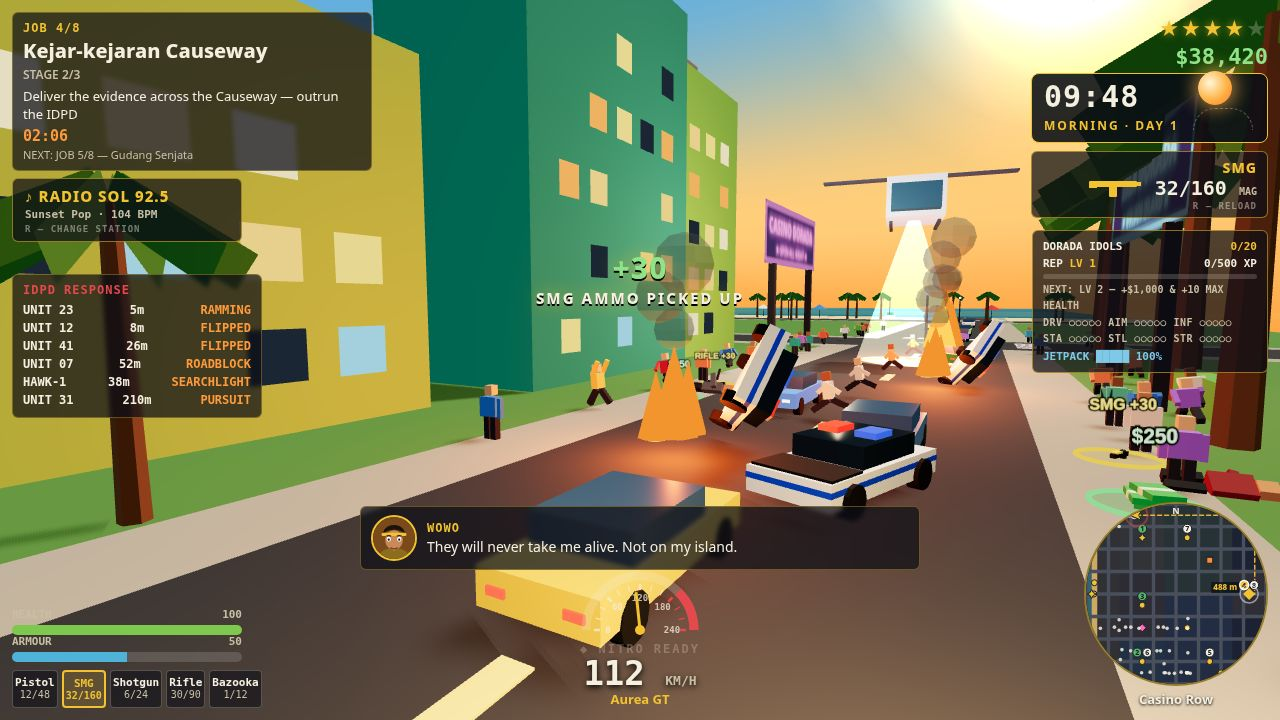
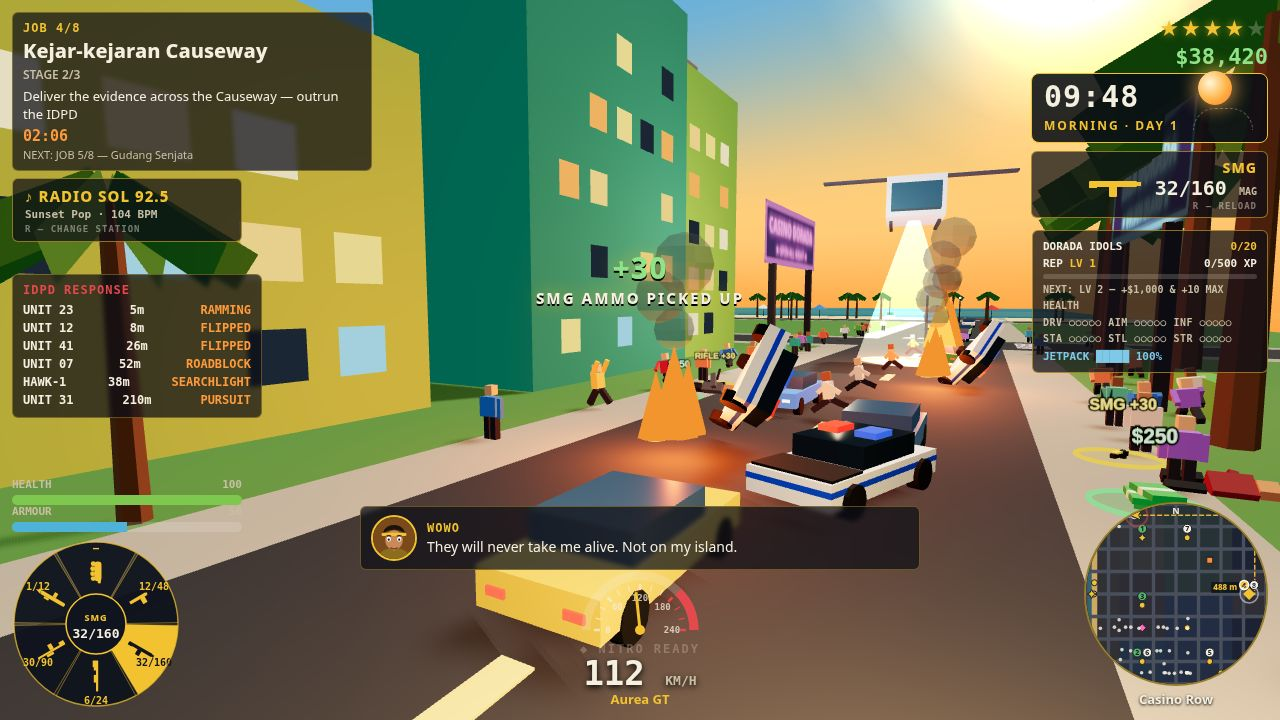
Token launch radar entry for make.fun token-radar-01

Changed region(s): [[0.0, 0.6722, 0.2188, 1.0]]

diff --git a/game/src/hud.js b/game/src/hud.js
@@ -12,7 +12,6 @@ const el = {};
 let last = {};
 let dialogueTimer = null;
 let toastTimer = null;
-let weaponSlots = [];
 let gaugeCtx = null;
 let popups = []; // { el, born, key }
 let seenScoreKeys = new Set();
@@ -92,33 +91,107 @@ export function portraitSVG(speaker) {
 
 // ---------------------------------------------------------------- weapon art
 // Flat, drawn SVG weapon silhouettes — original geometric art, no images.
-// Each is a 64x28 viewBox gun profile in gold; readable at ~60 px wide.
-// Used by the GTA-style top-right weapon panel (current weapon + ammo).
-function weaponSVG(name) {
+// Each is a 64x28 viewBox gun profile; readable at ~60 px wide.
+// Used by the GTA-style top-right weapon panel (current weapon + ammo) and
+// by the weapon wheel (one silhouette per wedge, gold on dark, dark on the
+// gold selected wedge — hence the colour parameter).
+function weaponSVGInner(name, color) {
   const n = String(name || '').toUpperCase();
-  const gold = '#f2c230';
+  const c = color || '#f2c230';
   let body = '';
-  if (n.includes('PISTOL')) {
-    body = `<rect x="10" y="9" width="34" height="6" rx="1" fill="${gold}"/>`
-      + `<rect x="30" y="14" width="9" height="12" rx="1" fill="${gold}"/>`
-      + `<rect x="42" y="10" width="4" height="4" fill="${gold}"/>`;
+  if (n.includes('FIST')) {
+    body = `<circle cx="20" cy="9" r="4.5" fill="${c}"/><circle cx="29" cy="8" r="4.5" fill="${c}"/>`
+      + `<circle cx="38" cy="8" r="4.5" fill="${c}"/><circle cx="47" cy="9" r="4.5" fill="${c}"/>`
+      + `<rect x="15" y="11" width="36" height="13" rx="6" fill="${c}"/>`
+      + `<rect x="11" y="17" width="10" height="6" rx="3" fill="${c}"/>`;
+  } else if (n.includes('PISTOL')) {
+    body = `<rect x="10" y="9" width="34" height="6" rx="1" fill="${c}"/>`
+      + `<rect x="30" y="14" width="9" height="12" rx="1" fill="${c}"/>`
+      + `<rect x="42" y="10" width="4" height="4" fill="${c}"/>`;
   } else if (n.includes('SMG')) {
-    body = `<rect x="6" y="10" width="48" height="6" rx="1" fill="${gold}"/>`
-      + `<rect x="26" y="15" width="8" height="11" rx="1" fill="${gold}"/>`
-      + `<rect x="6" y="12" width="8" height="5" fill="${gold}"/>`
-      + `<rect x="52" y="11" width="6" height="4" fill="${gold}"/>`;
+    body = `<rect x="6" y="10" width="48" height="6" rx="1" fill="${c}"/>`
+      + `<rect x="26" y="15" width="8" height="11" rx="1" fill="${c}"/>`
+      + `<rect x="6" y="12" width="8" height="5" fill="${c}"/>`
+      + `<rect x="52" y="11" width="6" height="4" fill="${c}"/>`;
   } else if (n.includes('SHOTGUN')) {
-    body = `<rect x="4" y="10" width="56" height="4" rx="1" fill="${gold}"/>`
-      + `<rect x="30" y="14" width="14" height="4" fill="${gold}"/>`
-      + `<rect x="4" y="13" width="12" height="7" rx="1" fill="${gold}"/>`
-      + `<rect x="14" y="14" width="8" height="4" fill="${gold}"/>`;
+    body = `<rect x="4" y="10" width="56" height="4" rx="1" fill="${c}"/>`
+      + `<rect x="30" y="14" width="14" height="4" fill="${c}"/>`
+      + `<rect x="4" y="13" width="12" height="7" rx="1" fill="${c}"/>`
+      + `<rect x="14" y="14" width="8" height="4" fill="${c}"/>`;
+  } else if (n.includes('BAZOOKA')) {
+    body = `<rect x="4" y="11" width="50" height="7" rx="3" fill="${c}"/>`
+      + `<path d="M54 11 L64 14.5 L54 18 Z" fill="${c}"/>`
+      + `<rect x="24" y="18" width="7" height="9" rx="1" fill="${c}"/>`
+      + `<rect x="34" y="7" width="10" height="4" rx="1" fill="${c}"/>`
+      + `<rect x="4" y="12" width="5" height="5" fill="${c}"/>`;
   } else { // Rifle
-    body = `<rect x="4" y="10" width="56" height="4" rx="1" fill="${gold}"/>`
-      + `<rect x="30" y="5" width="14" height="5" rx="1" fill="${gold}"/>`
-      + `<rect x="26" y="14" width="8" height="11" rx="1" fill="${gold}"/>`
-      + `<rect x="4" y="12" width="10" height="7" rx="1" fill="${gold}"/>`;
+    body = `<rect x="4" y="10" width="56" height="4" rx="1" fill="${c}"/>`
+      + `<rect x="30" y="5" width="14" height="5" rx="1" fill="${c}"/>`
+      + `<rect x="26" y="14" width="8" height="11" rx="1" fill="${c}"/>`
+      + `<rect x="4" y="12" width="10" height="7" fill="${c}"/>`;
   }
-  return `<svg viewBox="0 0 64 28" width="64" height="28" aria-hidden="true">${body}</svg>`;
+  return body;
+}
+
+function weaponSVG(name) {
+  return `<svg viewBox="0 0 64 28" width="64" height="28" aria-hidden="true">${weaponSVGInner(name)}</svg>`;
+}
+
+// ---------------------------------------------------------------- weapon wheel
+// GTA V weapon wheel: a circle divided into WEDGE segments (not boxes in a
+// ring). Six wedges — Fists on top, then Pistol, SMG, Shotgun, Rifle,
+// Bazooka clockwise — each carrying its silhouette, the selected wedge
+// gold with a dark icon, the rest dark with gold icons; the centre shows
+// the selected weapon's name + ammo. One SVG, rebuilt only when the
+// selection or an ammo count changes (renderHUD's signature check), so the
+// per-frame cost is a string compare. Wedge order is display-only: the
+// weapon index stays the combat index (Fists is index 5, appended last so
+// the staged shots' indices never move).
+const WHEEL_ORDER = [5, 0, 1, 2, 3, 4]; // display position -> weapon index
+const WHEEL_SIZE = 168, WHEEL_C = 84, WHEEL_R = 82, WHEEL_HOLE = 30;
+
+function wheelWedgePath(cx, cy, rOut, rIn, a0, a1) {
+  const rad = (d) => (d * Math.PI) / 180;
+  const pt = (r, a) => [cx + r * Math.cos(rad(a)), cy + r * Math.sin(rad(a))];
+  const [x0o, y0o] = pt(rOut, a0), [x1o, y1o] = pt(rOut, a1);
+  const [x1i, y1i] = pt(rIn, a1), [x0i, y0i] = pt(rIn, a0);
+  const f = (n) => n.toFixed(1);
+  return `M${f(x0i)} ${f(y0i)} L${f(x0o)} ${f(y0o)} A${rOut} ${rOut} 0 0 1 ${f(x1o)} ${f(y1o)}`
+    + ` L${f(x1i)} ${f(y1i)} A${rIn} ${rIn} 0 0 0 ${f(x0i)} ${f(y0i)} Z`;
+}
+
+function weaponWheelSVG(weapons, selectedIndex) {
+  const c = WHEEL_C;
+  let s = `<svg viewBox="0 0 ${WHEEL_SIZE} ${WHEEL_SIZE}" width="${WHEEL_SIZE}" height="${WHEEL_SIZE}" aria-hidden="true">`;
+  s += `<circle cx="${c}" cy="${c}" r="${WHEEL_R}" fill="rgba(12,14,22,.72)"/>`;
+  WHEEL_ORDER.forEach((wi, k) => {
+    const mid = -90 + k * 60; // wedge k centred on this angle (0 deg = east)
+    const a0 = mid - 29, a1 = mid + 29; // 2 deg gaps = the GTA dividers
+    const sel = wi === selectedIndex;
+    const w = weapons[wi] || {};
+    const fill = sel ? '#f2c230' : 'rgba(16,20,31,.88)';
+    const ink = sel ? '#14141f' : '#f2c230';
+    s += `<path d="${wheelWedgePath(c, c, WHEEL_R, WHEEL_HOLE, a0, a1)}" fill="${fill}" stroke="rgba(242,194,48,.45)" stroke-width="1"/>`;
+    // Silhouette at r 52, barrel pointing outwards; ammo count at r 76 —
+    // the long bazooka tube used to run over its own ammo text at r 56/72.
+    const rad = (d) => (d * Math.PI) / 180;
+    const ix = c + 52 * Math.cos(rad(mid)), iy = c + 52 * Math.sin(rad(mid));
+    // Ammo text rides at r 76 but its x is clamped inside the circle: on the
+    // side wedges the radial point sits past the circle's edge, so the text
+    // hung off the gold wedge (dark-on-grass, unreadable) before the clamp.
+    const ax = Math.min(c + 58, Math.max(c - 58, c + 76 * Math.cos(rad(mid))));
+    const ay = c + 76 * Math.sin(rad(mid));
+    s += `<g transform="translate(${ix.toFixed(1)} ${iy.toFixed(1)}) rotate(${mid}) scale(0.55) translate(-32 -14)">${weaponSVGInner(w.name, ink)}</g>`;
+    const ammo = w.melee ? '—' : (typeof w.mag === 'number' ? `${w.mag}/${w.reserve}` : String(w.ammo ?? ''));
+    s += `<text x="${ax.toFixed(1)}" y="${(ay + 3.5).toFixed(1)}" text-anchor="middle" font-family="ui-monospace,Menlo,monospace" font-size="10" font-weight="700" fill="${ink}">${ammo}</text>`;
+  });
+  s += `<circle cx="${c}" cy="${c}" r="${WHEEL_HOLE}" fill="#10141f" stroke="#f2c230" stroke-width="1.5"/>`;
+  const selW = weapons[selectedIndex] || {};
+  const selAmmo = selW.melee ? '—' : (typeof selW.mag === 'number' ? `${selW.mag}/${selW.reserve}` : String(selW.ammo ?? ''));
+  s += `<text x="${c}" y="${c - 3}" text-anchor="middle" font-family="system-ui,sans-serif" font-size="9" font-weight="800" letter-spacing="1" fill="#f2c230">${String(selW.name || '').toUpperCase()}</text>`;
+  s += `<text x="${c}" y="${c + 14}" text-anchor="middle" font-family="ui-monospace,Menlo,monospace" font-size="13" font-weight="800" fill="#f5efe0">${selAmmo}</text>`;
+  s += `<circle cx="${c}" cy="${c}" r="${WHEEL_R}" fill="none" stroke="rgba(242,194,48,.55)" stroke-width="1.5"/>`;
+  return s + '</svg>';
 }
 
 // ---------------------------------------------------------------- formatting
@@ -194,8 +267,10 @@ function injectHudStyle() {
 #weapon-panel .wp-ammo small { font-size: 10px; color: var(--muted); }
 #weapon-panel .wp-hint { font: 600 9px var(--font-read); color: rgba(245,239,224,.45); letter-spacing: 1px; text-align: right; margin-top: 2px; }
 #weapon-panel .wp-sil svg { display: block; }
-.wslot.active { border-color: var(--gold); border-width: 2px; color: var(--gold); background: rgba(242,194,48,.16); }
-.wslot.active .ammo { color: var(--gold); font-weight: 700; }
+/* Weapon wheel (replaces the old rectangular slot row): the rack div holds
+   the wheel SVG; the wheel is 168 px wide inside the 230 px vitals column. */
+#weapon-rack { display: block; margin-top: 8px; }
+#weapon-rack svg { display: block; }
 /* Progression strip (progression.js): idols, REP bar, skills, jetpack, side job.
    Lives under the radio badge so the dense HUD layout is untouched. */
 #prog-panel { position: absolute; left: auto; right: 12px; top: 182px; width: 236px; background: var(--panel); border: 1px solid rgba(242,194,48,.55); border-radius: 6px; padding: 7px 10px; font: 600 11px var(--font-read); color: var(--ink); line-height: 1.55; z-index: 5; }
@@ -460,18 +535,8 @@ export function initHUD(G) {
   el.ppJet = $('pp-jet');
   el.ppSide = $('pp-side');
 
-  // Build the 4 weapon-rack slots once from WEAPONS.
-  weaponSlots = [];
-  if (el.weaponRack) {
-    el.weaponRack.innerHTML = '';
-    WEAPONS.forEach((w, i) => {
-      const slot = document.createElement('div');
-      slot.className = 'wslot' + (i === 0 ? ' active' : '');
-      slot.innerHTML = `${w.name}<span class="ammo">${w.ammo}</span>`;
-      el.weaponRack.appendChild(slot);
-      weaponSlots.push(slot);
-    });
-  }
+  // The weapon rack holds the GTA V wheel now (weaponWheelSVG, built by
+  // renderHUD on first paint and rebuilt only when selection/ammo changes).
   last = {};
   popups = [];
   seenScoreKeys = new Set();
@@ -556,23 +621,14 @@ export function renderHUD(G) {
     if (el.armourNum) el.armourNum.textContent = String(armour);
   }
 
-  // --- weapon rack (mag/reserve when the combat build tracks them,
-  // otherwise the total ammo combat.js actually stores) ---
+  // --- weapon wheel (GTA V wedges; mag/reserve per wedge, '—' for fists) ---
   const wi = (G.combat && typeof G.combat.weaponIndex === 'number') ? G.combat.weaponIndex : 0;
-  weaponSlots.forEach((slot, i) => {
-    const cw = (G.combat && G.combat.weapons && G.combat.weapons[i]) || null;
-    const ammo = cw ? cw.ammo : WEAPONS[i].ammo;
-    const disp = (cw && typeof cw.mag === 'number')
-      ? `${cw.mag}/${typeof cw.reserve === 'number' ? cw.reserve : 0}` : String(ammo);
-    const key = `wslot${i}`;
-    const sig = `${i === wi ? 'a' : ''}|${disp}`;
-    if (last[key] !== sig) {
-      last[key] = sig;
-      slot.classList.toggle('active', i === wi);
-      const ammoEl = slot.querySelector('.ammo');
-      if (ammoEl) ammoEl.textContent = disp;
-    }
-  });
+  const wheelWeapons = (G.combat && G.combat.weapons) || WEAPONS;
+  const wheelSig = wheelWeapons.map((w, i) => `${i === wi ? 'a' : ''}|${w.melee ? '-' : (typeof w.mag === 'number' ? `${w.mag}/${w.reserve}` : w.ammo)}`).join(';');
+  if (last.wheelSig !== wheelSig) {
+    last.wheelSig = wheelSig;
+    if (el.weaponRack) el.weaponRack.innerHTML = weaponWheelSVG(wheelWeapons, wi);
+  }
 
   // --- GTA-style top-right weapon panel: current weapon + ammo ---
   if (el.weaponPanel) {
@@ -582,9 +638,9 @@ export function renderHUD(G) {
       ? G.combat.weapons[wi].ammo : WEAPONS[wi].ammo;
     // Mag/reserve "32/160" when present; combat.js currently stores only
     // total `ammo`, so that is what shows until a mag/reserve build lands.
-    const wdisp = (w && typeof w.mag === 'number')
+    const wdisp = (w && w.melee) ? '—' : (w && typeof w.mag === 'number')
       ? `${w.mag}/${typeof w.reserve === 'number' ? w.reserve : 0}` : String(wammo);
-    const wlabel = (w && typeof w.mag === 'number') ? 'MAG' : 'AMMO';
+    const wlabel = (w && w.melee) ? 'MELEE' : (w && typeof w.mag === 'number') ? 'MAG' : 'AMMO';
     const wsig = `${wi}|${wdisp}`;
     if (last.wpSig !== wsig) {
       last.wpSig = wsig;

diff --git a/game/src/combat.js b/game/src/combat.js
@@ -296,7 +296,35 @@ function damagePlayer(G, amount) {
 function tryFire(G) {
   const c = G.combat;
   const w = c.weapons[c.weaponIndex];
-  if (!w || w.mag <= 0) return; // empty mag: R reloads from reserve, never auto-fires
+  if (!w) return;
+  // Fists: a short swing — nearest live enemy within arm's reach in front
+  // of the camera. No ammo, no tracer, no muzzle flash.
+  if (w.melee) {
+    const dir = new THREE.Vector3();
+    G.camera.getWorldDirection(dir);
+    const origin = G.camera.position;
+    let best = null, bestT = Infinity;
+    for (const e of c.enemies) {
+      if (e.state !== 'alive') continue;
+      const dx = e.pos.x - origin.x, dy = e.pos.y + 1.2 - origin.y, dz = e.pos.z - origin.z;
+      const t = dx * dir.x + dy * dir.y + dz * dir.z;
+      if (t < 0 || t > w.range) continue;
+      const px = origin.x + dir.x * t - e.pos.x;
+      const py = origin.y + dir.y * t - (e.pos.y + 1.2);
+      const pz = origin.z + dir.z * t - e.pos.z;
+      if (px * px + py * py + pz * pz < 1.44 && t < bestT) { best = e; bestT = t; }
+    }
+    if (best) {
+      best.hp -= w.damage;
+      best.flashTimer = 0.12;
+      spawnDamageNumber(G, best.pos.x, best.pos.y + 2.3, best.pos.z, `-${w.damage}`, '#ffd94a');
+      spawnSparks(G, best.pos.x, best.pos.y + 1.2, best.pos.z, 4);
+      if (best.hp <= 0) { best.state = 'falling'; best.fallTimer = 0; }
+    }
+    G.stats.shotsFired += 1;
+    return;
+  }
+  if (w.mag <= 0) return; // empty mag: R reloads from reserve, never auto-fires
   w.mag -= 1;
   G.stats.shotsFired += 1;
 
@@ -811,13 +839,13 @@ export function updateCombat(G, dt) {
 
   if (G.mode !== 'play') return;
 
-  // Weapon switching: keys 1-5, or mouse wheel cycles the rack.
-  for (let i = 0; i < 5; i++) {
+  // Weapon switching: keys 1-6, or mouse wheel cycles the rack.
+  for (let i = 0; i < 6; i++) {
     if (Input.pressed(KEYS[`weapon${i + 1}`])) c.weaponIndex = i;
   }
   const wheel = Input.consumeWheel();
   if (wheel !== 0) {
-    c.weaponIndex = (c.weaponIndex + (wheel > 0 ? 1 : 4)) % 5;
+    c.weaponIndex = (c.weaponIndex + (wheel > 0 ? 1 : 5)) % 6;
   }
   // R reloads the current weapon from its reserve into the mag. If the
   // reserve is empty, nothing loads and the weapon stays unable to fire.
@@ -837,7 +865,7 @@ export function updateCombat(G, dt) {
   c._fireTimer -= dt;
   if (Input.mouseDown && c._fireTimer <= 0) {
     const w = c.weapons[c.weaponIndex];
-    if (w && w.mag > 0) {
+    if (w && (w.mag > 0 || w.melee)) {
       c._fireTimer = w.rate;
       tryFire(G);
     }

diff --git a/game/src/config.js b/game/src/config.js
@@ -123,6 +123,7 @@ export const WEAPONS = [
   { name: 'Shotgun', damage: 70, rate: 0.9,  ammo: 30,  magSize: 6,  reserve: 24,  range: 25,  flash: 1.5, tracer: 0xffb347 },
   { name: 'Rifle',   damage: 55, rate: 0.14, ammo: 120, magSize: 30, reserve: 90,  range: 90,  flash: 1.1, tracer: 0xfff2b0 },
   { name: 'Bazooka', damage: 220, rate: 1.2, ammo: 13,  magSize: 1,  reserve: 12,  range: 120, flash: 2.0, tracer: 0xff7733 },
+  { name: 'Fists',   damage: 25,  rate: 0.45, ammo: 0,  magSize: 0,  reserve: 0,   range: 2.5, flash: 0,   tracer: 0xffe08a, melee: true },
 ];
 
 // Arcade score popups: drift chains and near misses pay cash and are exposed
@@ -184,5 +185,5 @@ export const KEYS = {
   garage: 'KeyG',
   radioNext: 'KeyR',
   pause: 'Escape',
-  weapon1: 'Digit1', weapon2: 'Digit2', weapon3: 'Digit3', weapon4: 'Digit4', weapon5: 'Digit5',
+  weapon1: 'Digit1', weapon2: 'Digit2', weapon3: 'Digit3', weapon4: 'Digit4', weapon5: 'Digit5', weapon6: 'Digit6',
 };

diff --git a/game/index.html b/game/index.html
@@ -192,7 +192,7 @@
   </div>
   <div id="howto" class="hidden">
     <b>WASD</b> drive / walk &nbsp;·&nbsp; <b>E</b> steal or enter car, exit car &nbsp;·&nbsp; <b>Mouse</b> aim on foot, <b>Click</b> shoot<br>
-    <b>1–5</b> switch weapon &nbsp;·&nbsp; <b>Space</b> handbrake / jetpack (on foot) &nbsp;·&nbsp; <b>Shift</b> nitro (if upgraded) &nbsp;·&nbsp; <b>R</b> change radio / reload<br>
+    <b>1–6</b> switch weapon &nbsp;·&nbsp; <b>Space</b> handbrake / jetpack (on foot) &nbsp;·&nbsp; <b>Shift</b> nitro (if upgraded) &nbsp;·&nbsp; <b>R</b> change radio / reload<br>
     <b>M</b> city map &nbsp;·&nbsp; <b>G</b> garage (at the garage) &nbsp;·&nbsp; <b>Esc</b> pause<br>
     Steal cars, outrun the IDPD, finish all 8 jobs — and clear Wowo's name.
   </div>

diff --git a/game/src/driving.js b/game/src/driving.js
@@ -472,6 +472,10 @@ export function updateDriving(G, dt) {
     }
   }
 
+  // Healthy car: E steps out (wrecked/flipped are handled above; without
+  // this there was no way out of a driven car at all).
+  if (Input.pressed(KEYS.interact)) { exitCar(G); return; }
+
   const fwd = Input.down(...KEYS.forward);
   const back = Input.down(...KEYS.back);
   const handbrake = Input.down(KEYS.handbrake);
